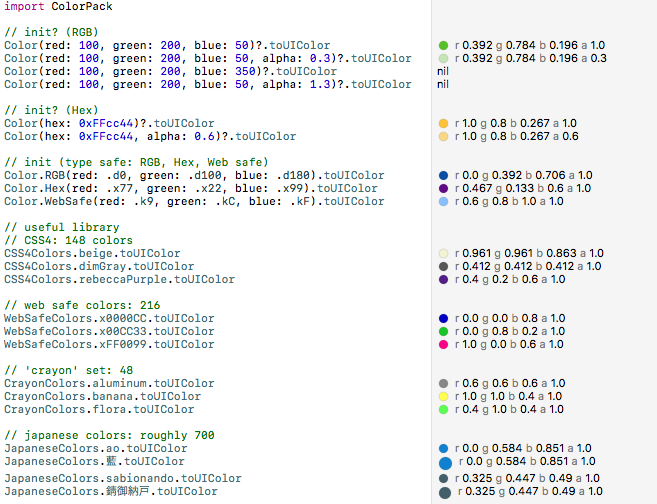
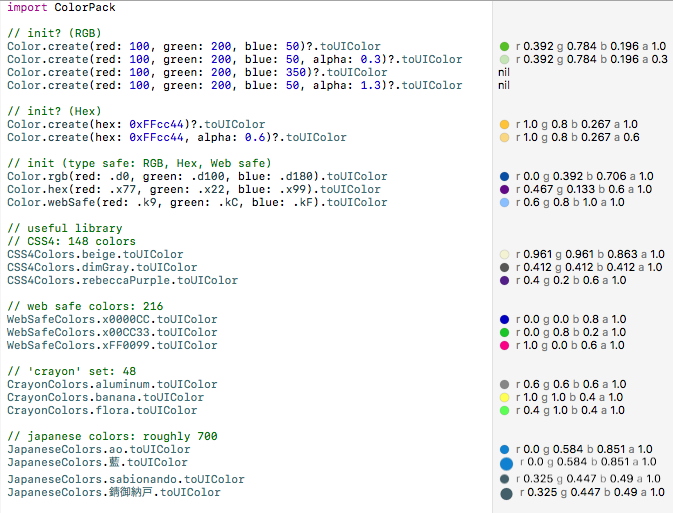
Update: readme.md

diff --git a/readme.md b/readme.md
@@ -23,19 +23,19 @@ github "tottokotkd/ColorPack" "1.0"
 import ColorPack
 
 // init? (RGB)
-Color(red: 100, green: 200, blue: 50)?.toUIColor 
-Color(red: 100, green: 200, blue: 50, alpha: 0.3)?.toUIColor
-Color(red: 100, green: 200, blue: 350)?.toUIColor 
-Color(red: 100, green: 200, blue: 50, alpha: 1.3)?.toUIColor
+Color.create(red: 100, green: 200, blue: 50)?.toUIColor
+Color.create(red: 100, green: 200, blue: 50, alpha: 0.3)?.toUIColor
+Color.create(red: 100, green: 200, blue: 350)?.toUIColor
+Color.create(red: 100, green: 200, blue: 50, alpha: 1.3)?.toUIColor
 
 // init? (Hex)
-Color(hex: 0xFFcc44)?.toUIColor
-Color(hex: 0xFFcc44, alpha: 0.6)?.toUIColor
+Color.create(hex: 0xFFcc44)?.toUIColor
+Color.create(hex: 0xFFcc44, alpha: 0.6)?.toUIColor
 
-// init (type safe: RGB, Hex, Web safe)
-Color.RGB(red: .d0, green: .d100, blue: .d180).toUIColor
-Color.Hex(red: .x77, green: .x22, blue: .x99).toUIColor
-Color.WebSafe(red: .k9, green: .kC, blue: .kF).toUIColor
+// factory (type safe: RGB, Hex, Web safe)
+Color.rgb(red: .d0, green: .d100, blue: .d180).toUIColor
+Color.hex(red: .x77, green: .x22, blue: .x99).toUIColor
+Color.webSafe(red: .k9, green: .kC, blue: .kF).toUIColor
 
 // useful library
 // CSS4: 148 colors
@@ -64,3 +64,9 @@ JapaneseColors.錆御納戸.toUIColor
 
 ## License
 MIT
+
+
+## updates
+### v 1.0 -> 1.1
+* 'Color' struct is removed: `Color.init?()` is changed to `Color.create()`
+* factory methods renamed: , `Color.RGB`, `.Hex` and `.WebSafe`, are changed to `.rgb`, `.hex`, `.webSafe`
